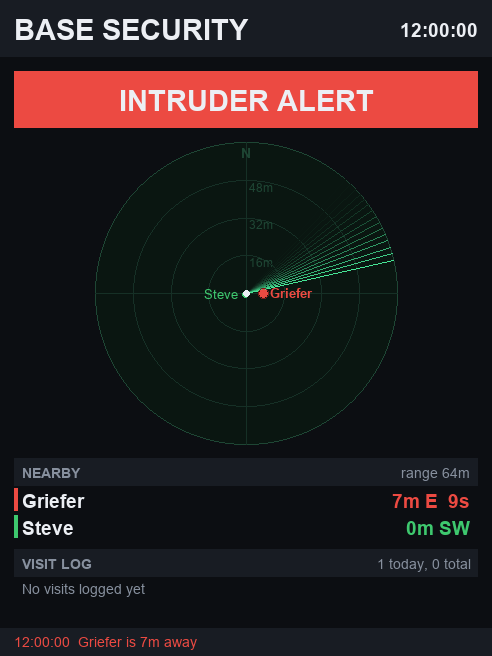
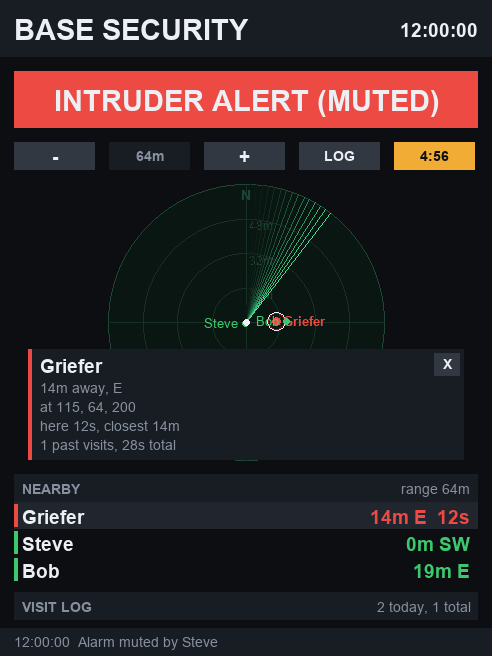
Add monitor toolbar, player details, detector-unlocked mute, and join toasts

diff --git a/README.md b/README.md
@@ -8,7 +8,16 @@ ComputerCraft base security for an Advanced Peripherals Player Detector. When a 
 - sends a toast to every allowed player who's online (if a Chat Box is attached),
 - warns again if they get close.
 
-Every visit is logged with the time it started, how long it lasted and the closest the player got. Tap the monitor to see the full log and repeat visitors. Made for a 3 wide, 4 tall monitor with a DirectGPU block; plain monitor text works too.
+Every visit is logged with the time it started, how long it lasted and the closest the player got.
+
+It also toasts the allowed list when a player on `WATCH_JOINS` joins the server (default: `Mechanoo`).
+
+## Monitor controls
+
+- **- / +**: zoom the radar (view only; detection range stays `RANGE`).
+- **LOG**: full visit log with repeat visitors; **BACK** returns.
+- **Tap a player** in the Nearby list: their coordinates, direction, time here, closest distance and past visits.
+- **MUTE**: silences the siren and speaker for `MUTE_MINUTES`. It's locked until an allowed player right-clicks the Player Detector, so an intruder can't silence it from the monitor. An intruder right-clicking the detector sends an alert instead. Mute/unmute any time from the computer. Made for a 3 wide, 4 tall monitor with a DirectGPU block; plain monitor text works too.
 
 ![Screen preview](preview.png)
 
@@ -25,4 +34,4 @@ wget https://raw.githubusercontent.com/levisnakes/cc-player-alarm/main/player_al
 3. Edit the top of the file: `ALLOWED` names, `RANGE`, `ALARM_SIDE`, `UTC_OFFSET` for local times in the log.
 4. Stand on top of the Player Detector by yourself and press **Calibrate** on the computer. This gives the radar real directions. Before you do, distances are still exact but blips are placed at a fixed angle per player.
 
-The computer screen lists nearby players with an **Allow** button, lets you add or remove allowed names, and clear the log. Tapping the monitor only switches views, so it's safe where visitors can reach it.
+The computer screen lists nearby players with an **Allow** button, lets you add or remove allowed names, and clear the log. Everything on the monitor except MUTE only changes the view, and MUTE needs the detector unlock.
